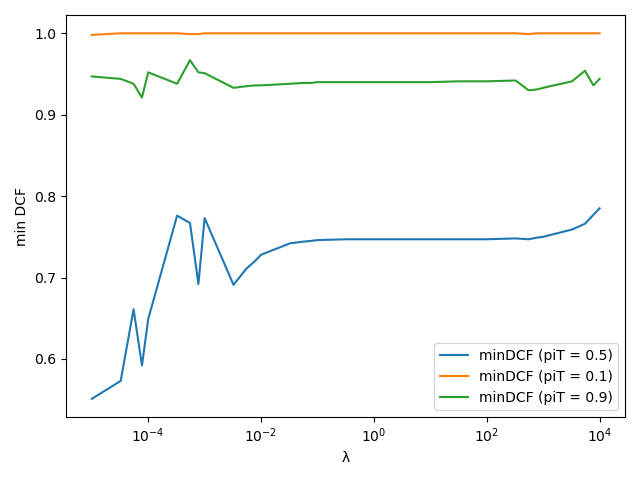
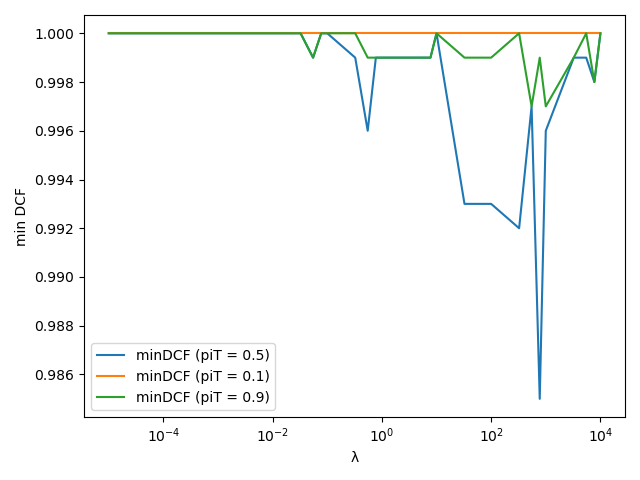
modificato k-fold minDCF

diff --git a/main.py b/main.py
@@ -183,7 +183,7 @@ def min_DCF(llr, labels, prior, cfn, cfp):
     scores = llr  # numpy.sort(llr)  # without sort improve performance
 
     mindcf = None
-    for threshold in scores:
+    for i, threshold in enumerate(scores):
         predicted = 0 + (llr > threshold)
         confusion_matrix_min_dcf = compute_confusion_matrix(labels, predicted)
         DCF_ = DCF(prior, cfn, cfp, confusion_matrix_min_dcf)
@@ -203,7 +203,7 @@ def k_fold_min_DCF(D, L, K, Classifier, prior, args=()):
     idx = numpy.concatenate((idx, idx))
 
     n_classes = len(set(L))
-    mindcf = 0
+    llr = numpy.zeros(D.shape[1])
     for i in range(K):
         start = i * nTest
         idxTrain = idx[start: start + nTrain]
@@ -215,9 +215,11 @@ def k_fold_min_DCF(D, L, K, Classifier, prior, args=()):
         LTE = L[idxTest]
 
         classifier = Classifier(DTR, LTR, *args)
-        mindcf += min_DCF(classifier.llr(DTE), LTE, prior, 1, 1)
+        llr[idxTest] = classifier.llr(DTE)
 
-    return mindcf / K
+    mindcf = min_DCF(llr, L, prior, 1, 1)
+
+    return mindcf
 
 
 if __name__ == '__main__':
@@ -267,7 +269,7 @@ if __name__ == '__main__':
 
     priors = numpy.array([0.5, 0.1, 0.9])
     mindcf = numpy.zeros((classifiers.shape[0], priors.shape[0]))
-    data = []  # [DTR, DTR_G]  # [DTR_G, DTR_G_PCA_7, DTR_G_PCA_6, DTR_G_PCA_5, DTR]
+    data = [DTR, DTR_G]  # [DTR_G, DTR_G_PCA_7, DTR_G_PCA_6, DTR_G_PCA_5, DTR]
 
     for d, D in enumerate(data):
         for i, c in enumerate(classifiers):
@@ -277,6 +279,8 @@ if __name__ == '__main__':
                 print("min_DCF = " + str(mindcf[i, j]))
         table = numpy.hstack((vcol(classifier_name), mindcf))
         print(tabulate(table, headers=[""] + list(priors), tablefmt='fancy_grid'))
+
+    numpy.save('./data/minDCF_GAU_models.npy', mindcf)
 
     ##################################################################################
 
@@ -293,24 +297,23 @@ if __name__ == '__main__':
     lamb = numpy.array([numpy.linspace(lamb[i], lamb[i + 1], 5) for i in range(lamb.shape[0] - 1)]).reshape(-1)
     priors = numpy.array([0.5, 0.1, 0.9])
 
-    try:
-        mindcf = numpy.load('./data/minDCF_LogReg_lamb.npy')
-    except FileNotFoundError:
-        mindcf = numpy.zeros((classifiers.shape[0], priors.shape[0], lamb.shape[0]))
-        data = [DTR, DTR_G]
+    # try:
+    #     mindcf = numpy.load('./data/minDCF_LogReg_lamb.npy')
+    # except FileNotFoundError:
+    mindcf = numpy.zeros((classifiers.shape[0], priors.shape[0], lamb.shape[0]))
+    data = [DTR, DTR_G]
 
-        for d, D in enumerate(data):
-            for i, c in enumerate(classifiers):
-                for j, p in enumerate(priors):
-                    print(classifier_name[i] + " - prior = " + str(p) + " - data id = " + str(d))
-                    for k, l in enumerate(lamb):
-                        mindcf[i, j, k] = round(k_fold_min_DCF(D, LTR, K=5, Classifier=c, args=(l, None,), prior=p), 3)
-                        print("min_DCF = " + str(mindcf[i, j]), end='\r')
-                    print()
-            table = numpy.hstack((vcol(classifier_name), mindcf.min(axis=2, initial=inf)))
-            print(tabulate(table, headers=[""] + list(priors), tablefmt='fancy_grid'))
+    for d, D in enumerate(data):
+        for i, c in enumerate(classifiers):
+            for j, p in enumerate(priors):
+                print(classifier_name[i] + " - prior = " + str(p) + " - data id = " + str(d))
+                for k, l in enumerate(lamb):
+                    mindcf[i, j, k] = round(k_fold_min_DCF(D, LTR, K=5, Classifier=c, args=(l, None,), prior=p), 3)
+                print("min_DCF = " + str(mindcf[i, j]))
+        table = numpy.hstack((vcol(classifier_name), mindcf.min(axis=2, initial=inf)))
+        print(tabulate(table, headers=[""] + list(priors), tablefmt='fancy_grid'))
 
-        numpy.save('./data/minDCF_LogReg_lamb.npy', mindcf)
+    numpy.save('./data/minDCF_LogReg_lamb.npy', mindcf)
 
     for i in range(mindcf.shape[0]):
         table = numpy.hstack((vcol(classifier_name[i:i+1]), vrow(mindcf[i].min(axis=1, initial=inf))))
